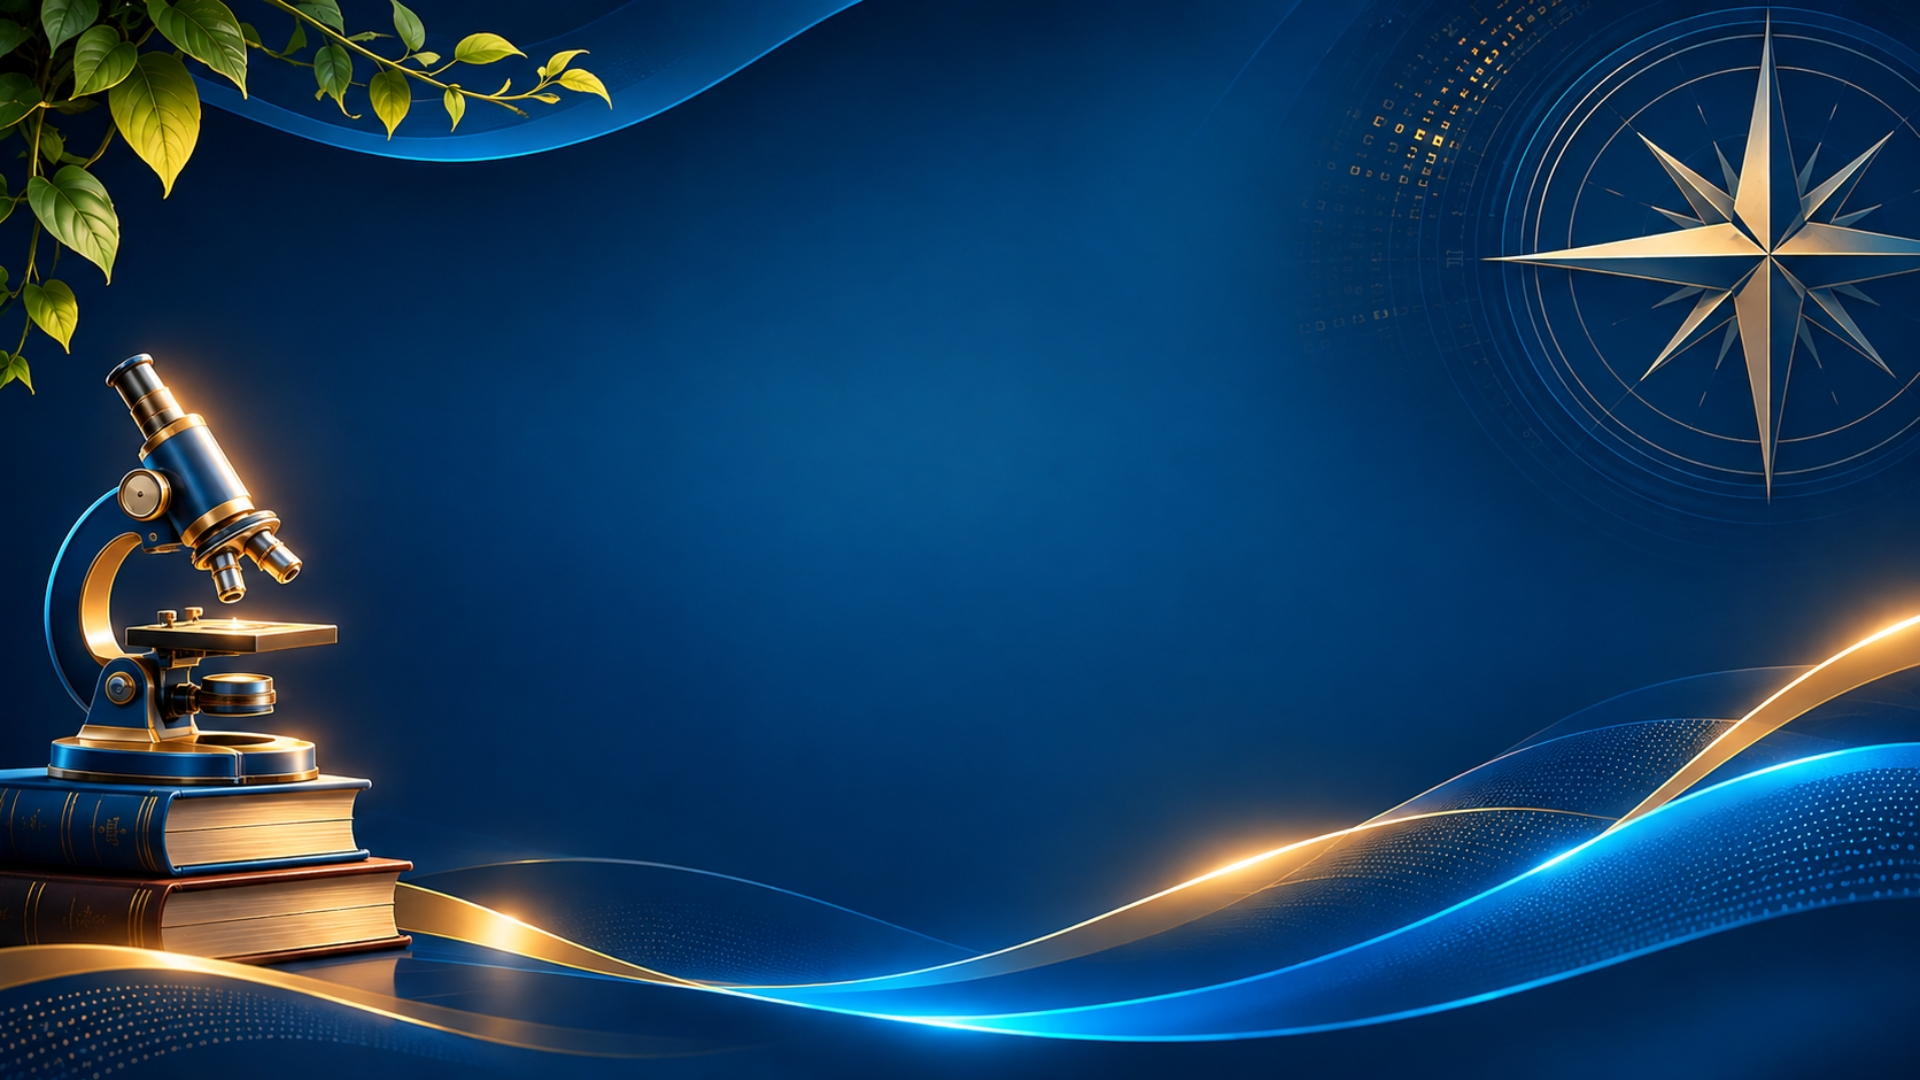
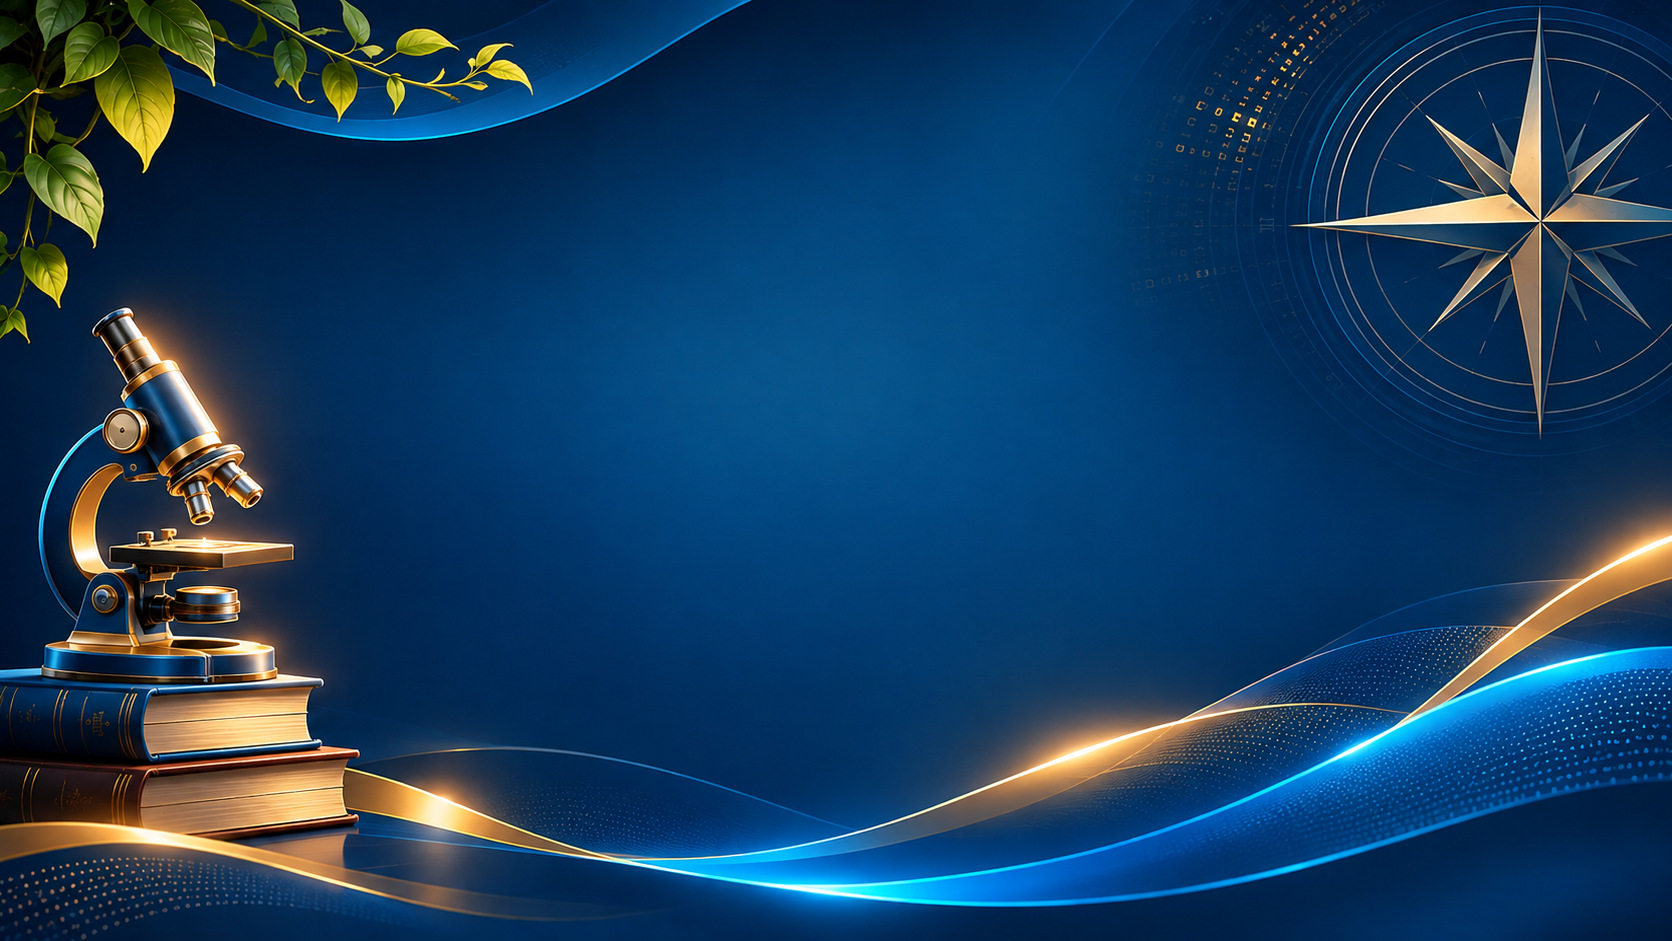
Add files via upload

diff --git a/painel.js b/painel.js
@@ -1,7 +1,7 @@
 /* V47 — painéis individuais e coletivos; controles HTML reais. */
 (()=>{'use strict';const $=id=>document.getElementById(id);const dashboard=$('dashboard');
 $('goControlPanel').addEventListener('click',()=>tab('dashboard')); 
-function render(){if(!state.mode)return;const collective=state.mode==='collective';const classes=collective&&window.v47Classes?window.v47Classes():[];const chosen=collective&&classes.find(c=>c.id===window.v47SelectedClass());const record=chosen?.record;const counts=collective?(record?.counts||{}):state.counts;const used=collective?(record?.used||[]):state.used;const participants=collective?(chosen?.participants||0):1;const answers=Object.values(counts).filter(v=>v!==null&&v!==undefined);const yes=answers.reduce((s,n)=>s+Number(n||0),0);const no=answers.length*participants-yes;
+function render(){if(!state.mode)return;const collective=state.mode==='collective';const classes=collective&&window.v47Classes?window.v47Classes():[];const chosen=collective&&classes.find(c=>c.id===window.v47SelectedClass());const record=chosen?.record;const live=collective&&chosen&&window.currentClassId===chosen.id&&state.mode==='collective'&&state.className===chosen.name;const counts=collective?(live?state.counts:(record?.counts||{})):state.counts;const used=collective?(live?state.used:(record?.used||[])):state.used;const participants=collective?(live?state.total:(chosen?.participants||0)):1;const answers=Object.values(counts).filter(v=>v!==null&&v!==undefined);const yes=answers.reduce((s,n)=>s+Number(n||0),0);const no=answers.length*participants-yes;
  $('v47-mode-tag').textContent=collective?'♧ EXPERIÊNCIA COLETIVA · GESTÃO DE TURMAS':'♙ EXPERIÊNCIA INDIVIDUAL';$('v47-side-title').textContent=collective?'TURMAS':'MINHA EXPERIÊNCIA';$('v47-selected-title').textContent=collective?(chosen?chosen.name+' — Painel da Turma':'Selecione ou crie uma turma'):'Minha Experiência';
  ['v47-new-class','v47-manage','v47-class-items'].forEach(id=>$(id).classList.toggle('hidden',!collective));['v47-new-individual','v47-resume'].forEach(id=>$(id).classList.toggle('hidden',collective));$('v47-enter').disabled=collective&&!chosen;
  $('v47-questions').textContent='20';$('v47-people').textContent=String(participants);$('v47-yes').textContent=String(yes);$('v47-no').textContent=String(Math.max(0,no));$('v47-progress-text').textContent=used.length+' de 20 questões ('+Math.round(used.length*5)+'%)';$('v47-progress-bar').style.width=(used.length*5)+'%';

diff --git a/app.js b/app.js
@@ -47,7 +47,6 @@ $('fullScreen').onclick=async()=>{try{if(!document.fullscreenElement)await docum
 function selectAnswer(n){if(state.mode!=='individual'||state.active<0)return;$('count').value=String(n);if(saveCurrent()){radar(); $('answerYes').setAttribute('aria-pressed',String(n===1));$('answerNo').setAttribute('aria-pressed',String(n===0)); }}
 $('answerYes').onclick=()=>selectAnswer(1);$('answerNo').onclick=()=>selectAnswer(0);
 function tab(name){if(name==='turmas'&&state.mode!=='collective')name='dashboard';if(name==='dashboard'&&typeof renderV47Dashboard==='function')renderV47Dashboard();document.querySelectorAll('main>section[id]').forEach(s=>{if(['dashboard','roda','pergunta','questoes','relatorio','intervencao','turmas'].includes(s.id))s.classList.toggle('hidden',s.id!==name)});document.querySelectorAll('nav button').forEach(b=>b.classList.toggle('on',b.dataset.tab===name));if(name==='relatorio'){
- if(state.active>=0&&$('count').value.trim()!=='')saveCurrent();
  radar();
  requestAnimationFrame(()=>{if(!$('relatorio').classList.contains('hidden'))radar();});
 }if(name==='questoes')list();if(name==='intervencao'&&typeof renderIntervention==='function')renderIntervention();if(name==='turmas'&&typeof renderClasses==='function')renderClasses()};document.querySelectorAll('nav button').forEach(b=>b.onclick=()=>tab(b.dataset.tab));
@@ -115,7 +114,12 @@ function saveCurrent(){
  }else if(state.counts[state.active]===undefined){/* sem resposta ainda */}
  state.notes[state.active]=$('note').value;
  saveState();update();
+ // Atualiza também o registro único da turma, que alimenta o painel coletivo.
+ if(state.mode==='collective' && typeof window.archiveCurrentExperience==='function') {
+   window.archiveCurrentExperience(true);
+ }
  radar();
+ if(typeof window.renderV47Dashboard==='function')window.renderV47Dashboard();
  return true;
 }
 $('spin').onclick=()=>{if(state.active>=0){alert('Para avançar, utilize SALVAR E SORTEAR PRÓXIMA PERGUNTA na questão atual.');tab('pergunta');return}spin()};

diff --git a/turmas.js b/turmas.js
@@ -55,7 +55,7 @@ function applyRecord(c,r,destination){
  state.className=c.name;state.total=c.participants;
  el('className').value=c.name;el('total').value=c.participants;
  if(r)restoreInterventions(r.interventions);else clearInterventions();
- saveState();update();tab(destination);renderClasses();status('Dados carregados exclusivamente da turma '+c.name+'.')
+ saveState();update();tab(destination);if(typeof radar==='function')radar();renderClasses();if(window.renderV47Dashboard)renderV47Dashboard();status('Dados carregados exclusivamente da turma '+c.name+'.')
 }
 
 window.archiveCurrentExperience=archiveCurrentExperience;
